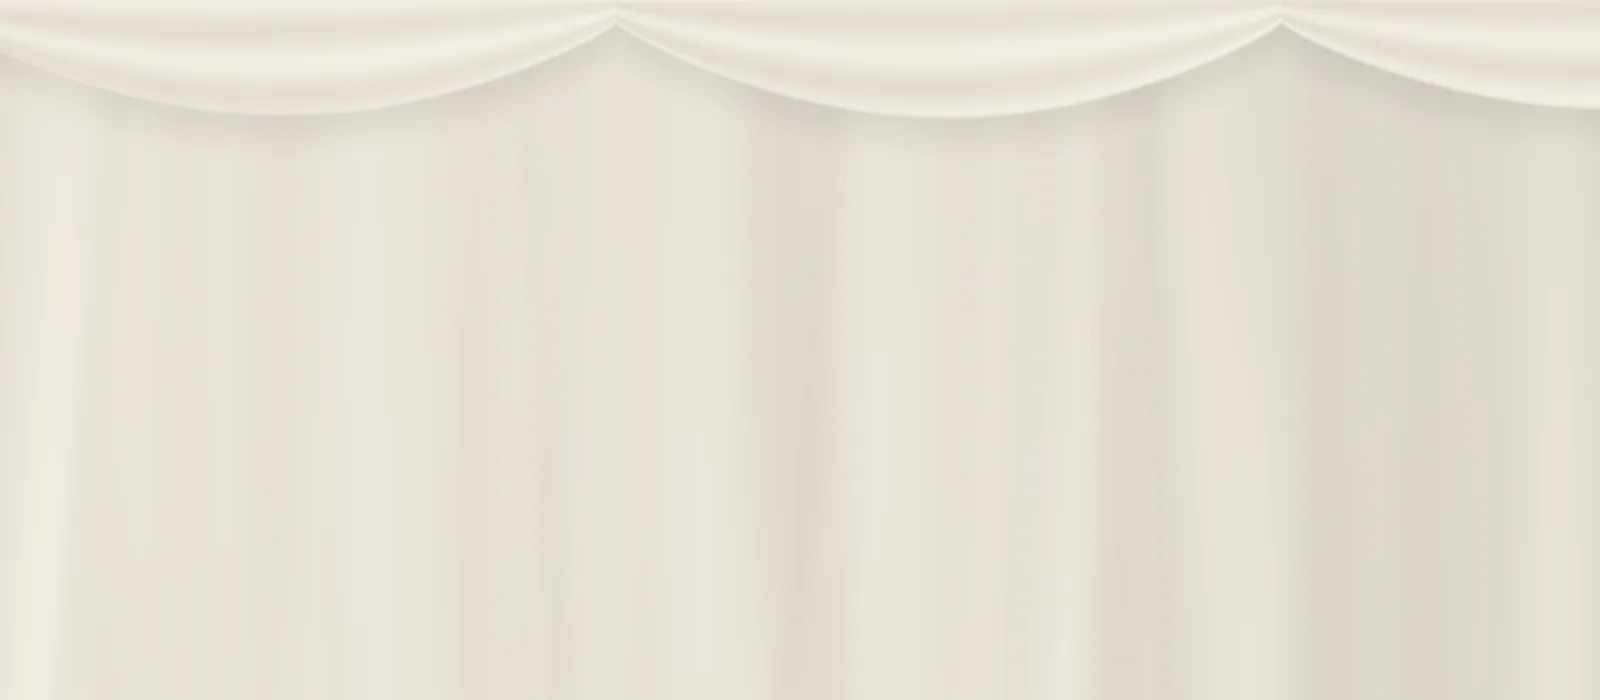
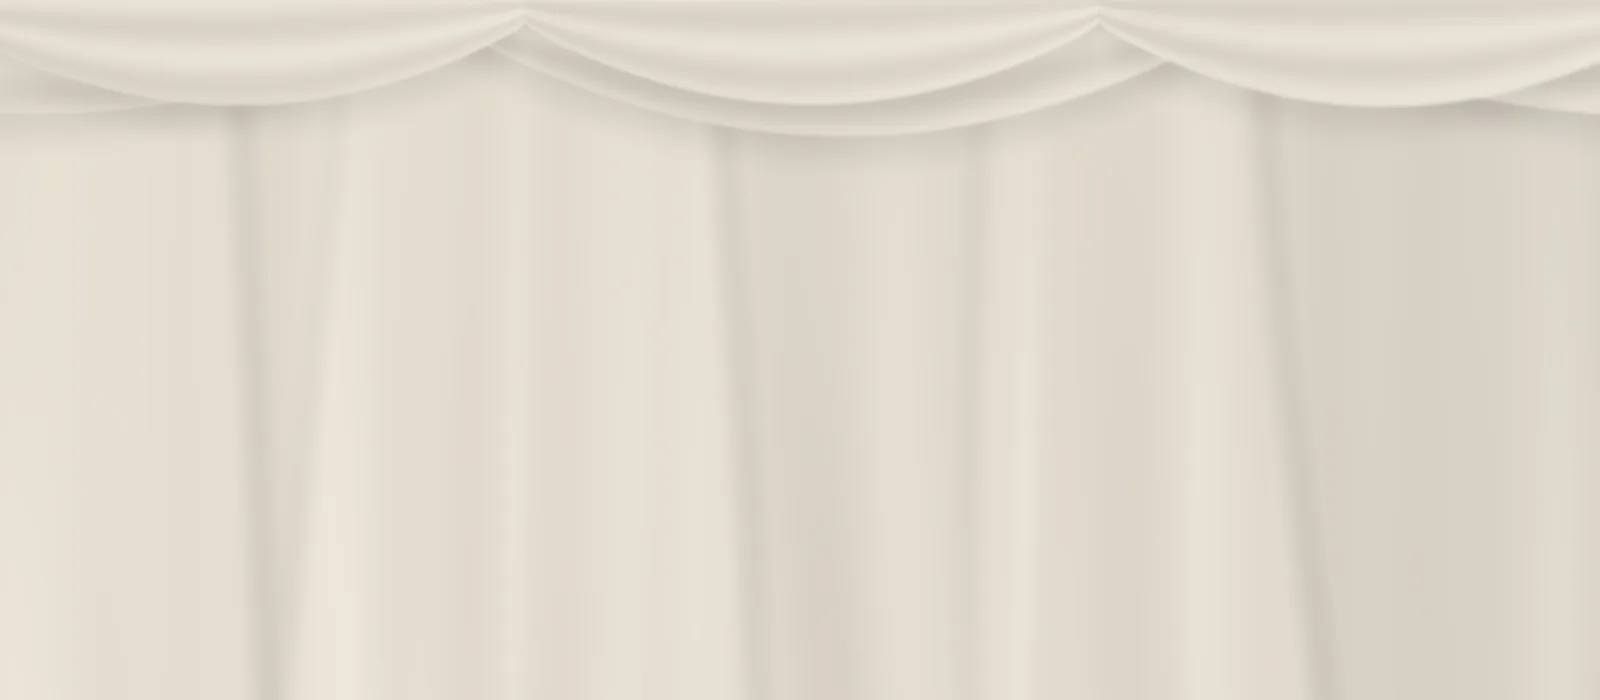
원단 배경에 마우스 반응 복구 — 물결 대신 자락 단위로 밀리고 관성으로 가라앉음
- 2차 시안의 변위장(ClothField)을 원단용으로 재구성: 맨 윗줄 고정, 세로로 강하게·가로로 약하게 결합
- 밀린 쪽 주름이 촘촘해지고 겹마다 반응 크기가 달라 깊이가 드러남, 마우스 세로 위치는 겹 사이 시차
- 천장 스왜그 2줄, 오간자 자락 3장과 그림자로 앞뒤 구조 정리
- 전체 밝기를 낮추고 명암을 절제, 아래 구역 원단 그림자 갱신
- 터치 기기는 가끔 지나가는 약한 바람으로 기본 모션 유지

Claude-Session: https://claude.ai/code/session_012PDLrisHMvdsKQRoRPp3u7

diff --git a/js/fabric.js b/js/fabric.js
@@ -1,55 +1,137 @@
-/* LUXE ELISABETH — 걸려 있는 원단
- * 화면 위쪽 천장에 원단이 스왜그(늘어진 곡선)로 걸려 있고, 그 아래로 실크·오간자 커튼이 바닥까지 늘어진 장면을 그린다.
- *  - 커튼 윗부분은 고정, 아래로 갈수록 아주 약한 공기에 천천히 흔들린다(밑단이 가장 많이 움직임).
- *  - 겹마다 흔들리는 주기와 방향이 달라 동시에 움직이지 않는다.
- *  - 마우스는 원단을 움직이지 않고, 겹 사이의 아주 작은 시차만 만든다.
- *  - 강한 광택·반짝임·물결 효과 없음. 명암은 주름의 입체감이 보일 만큼만.
+/* LUXE ELISABETH — 걸려 있는 원단 + 마우스 반응
+ *
+ * 장면(뒤 → 앞)
+ *   1. 벽을 덮은 실크 커튼 : 넓고 부드러운 세로 주름
+ *   2. 오간자 자락 3장     : 반투명, 가장자리가 따로 흔들림, 겹친 곳에 그림자
+ *   3. 천장 스왜그 2줄     : 뒤 줄과 앞 줄이 다른 간격으로 늘어져 깊이가 생김
+ *
+ * 움직임
+ *   - 기본 : 위(봉)는 고정, 아래로 갈수록 천천히 흔들림. 겹마다 주기·방향이 달라 동시에 움직이지 않음
+ *   - 마우스 : 2차 시안의 '변위장(ClothField)'을 원단용으로 다시 연결.
+ *              · 격자를 세로로 단단히, 가로로 느슨하게 묶어 물결처럼 퍼지지 않고 '자락 단위'로 밀림
+ *              · 맨 윗줄은 봉에 고정 → 밑단일수록 크게 밀렸다가 관성으로 몇 번 흔들리며 가라앉음
+ *              · 밀린 쪽은 주름이 촘촘하고 깊어지고, 반대쪽은 펴짐(주름이 반응)
+ *              · 겹마다 반응 크기가 달라(앞 겹 > 뒤 겹) 깊이가 드러남
+ *              · 마우스 세로 위치는 겹 사이 시차와 앞 자락의 겹침 정도를 바꿈
+ *   - 빛은 주름 모양만 보여줌. 반짝임·번쩍임·부푸는 광택 없음
  */
 (function (root) {
   'use strict';
+
+  /* ───────── 변위장 ───────── */
+  class ClothField {
+    constructor(cols, rows) {
+      this.kV = 240;   // 세로 이웃(같은 자락) — 강하게: 자락 전체가 함께 움직임
+      this.kH = 26;    // 가로 이웃 — 약하게: 옆 자락은 조금 늦게, 조금만 따라옴
+      this.kR = 2.4;   // 제자리로 돌아오려는 힘(진자처럼 몇 번 흔들림)
+      this.damp = 1.25;
+      this.amp = 0.08; // 텍스처로 넘길 최대 변위(화면 비율)
+      this.alloc(cols, rows);
+    }
+    alloc(w, h) { this.W = w; this.H = h; const n = w * h; this.d = new Float32Array(n * 2); this.v = new Float32Array(n * 2); this.bytes = new Uint8Array(n * 4); }
+    /* x,y: 0~1, vx,vy: 초당 화면 비율 */
+    push(x, y, vx, vy, r, gain) {
+      const W = this.W, H = this.H, asp = this.asp || 1.6, r2 = r * r;
+      for (let j = 1; j < H; j++) {
+        const fy = j / (H - 1);
+        const hang = Math.pow(fy, 1.2);                 // 봉 가까이는 거의 안 밀림
+        for (let i = 0; i < W; i++) {
+          const dx = ((i + 0.5) / W - x) * asp, dy = (fy - y) * 0.55; // 세로로 긴 영향 범위(자락 단위)
+          const g = Math.exp(-(dx * dx + dy * dy) / r2);
+          if (g < 0.01) continue;
+          const k = (j * W + i) * 2;
+          this.v[k] += vx * g * gain * hang;
+          this.v[k + 1] += vy * g * gain * hang * 0.35;
+        }
+      }
+    }
+    step(dt) {
+      const W = this.W, H = this.H, d = this.d, v = this.v;
+      for (let j = 1; j < H; j++) {
+        const ju = j - 1, jd = j < H - 1 ? j + 1 : j;
+        for (let i = 0; i < W; i++) {
+          const il = i > 0 ? i - 1 : i, ir = i < W - 1 ? i + 1 : i;
+          const k = (j * W + i) * 2, ku = (ju * W + i) * 2, kd = (jd * W + i) * 2, kl = (j * W + il) * 2, kr = (j * W + ir) * 2;
+          for (let a = 0; a < 2; a++) {
+            const lv = d[ku + a] + d[kd + a] - 2 * d[k + a];
+            const lh = d[kl + a] + d[kr + a] - 2 * d[k + a];
+            v[k + a] += (this.kV * lv + this.kH * lh - this.kR * d[k + a] - this.damp * v[k + a]) * dt;
+          }
+        }
+      }
+      for (let n = 2 * W; n < d.length; n++) {         // 첫 줄(봉)은 고정
+        d[n] += v[n] * dt;
+        if (d[n] > this.amp) { d[n] = this.amp; v[n] *= 0.5; } else if (d[n] < -this.amp) { d[n] = -this.amp; v[n] *= 0.5; }
+      }
+    }
+    pack() {
+      const d = this.d, b = this.bytes, s = 127.5 / this.amp;
+      for (let n = 0, m = 0; n < d.length; n += 2, m += 4) {
+        b[m] = Math.max(0, Math.min(255, 127.5 + d[n] * s));
+        b[m + 1] = Math.max(0, Math.min(255, 127.5 + d[n + 1] * s));
+        b[m + 2] = 128; b[m + 3] = 255;
+      }
+      return b;
+    }
+    maxAbs() { let e = 0; for (let n = 0; n < this.d.length; n++) e = Math.max(e, Math.abs(this.d[n])); return e; }
+  }
 
   const VERT = 'attribute vec2 a;void main(){gl_Position=vec4(a,0.0,1.0);}';
   const FRAG = `
 precision highp float;
 uniform vec2 uRes; uniform float uT; uniform vec2 uPar;
+uniform sampler2D uSim; uniform float uAmp;
 uniform vec3 uBg; uniform vec3 uEnd; uniform float uFade; uniform float uSwag;
 
 float hash(float n){ return fract(sin(n) * 43758.5453); }
 float vnoise(float x){ float i = floor(x), f = fract(x); f = f*f*(3.0-2.0*f); return mix(hash(i), hash(i + 1.0), f); }
 
-/* 커튼 한 겹의 높이(주름). x: 세로 길이 기준 가로 좌표, y: 0(위)~1(아래) */
-float curtain(float x, float y, float k, float t){
-  float g = pow(y, 1.7);                                   // 위는 고정, 밑단으로 갈수록 흔들림
-  float sway = g * ( 0.018*sin(t*0.29 + k*1.9 + x*0.9)
-                   + 0.010*sin(t*0.43 + k*3.1 - x*1.7)
-                   + 0.005*sin(t*0.71 + k*0.7 + x*3.1) );
-  float xs = x + sway + uPar.x * 0.004 * (k + 1.0);
-  float f = 15.0 + 4.0*k;
-  float ph = vnoise(xs*2.2 + k*7.0) * 2.4                   // 주름 간격을 불규칙하게
-           + 0.5*sin(y*1.7 + x*2.3 + k) * g;                 // 아래쪽은 주름이 살짝 휘어짐
+vec2 simAt(vec2 s){ return (texture2D(uSim, s).rg - 0.5) * 2.0 * uAmp; }
+
+/* 커튼 한 겹의 주름 높이. x: 세로 기준 가로 좌표, y: 0(봉)~1(바닥), k: 겹 번호, m: 마우스 변위(가로), c: 압축(+면 촘촘) */
+float curtain(float x, float y, float k, float t, float m, float c){
+  float g = pow(y, 1.7);
+  float sway = g * ( 0.016*sin(t*0.29 + k*1.9 + x*0.9)
+                   + 0.009*sin(t*0.43 + k*3.1 - x*1.7)
+                   + 0.004*sin(t*0.71 + k*0.7 + x*3.1) );
+  float xs = x + sway + m;
+  float f = (15.0 + 4.0*k) * (1.0 + c * 0.5);
+  float ph = vnoise(xs*2.2 + k*7.0) * 2.4 + 0.5*sin(y*1.7 + x*2.3 + k) * g;
   float h = 0.62*sin(xs*f + ph + k*2.0)
           + 0.28*sin(xs*f*1.73 + ph*1.6 + k)
           + 0.07*sin(xs*f*3.1 - ph + k*4.0 + y*1.5);
-  return h * (0.6 + 0.4*smoothstep(0.0, 0.9, y));
-}
-
-/* 얇은 커튼 자락의 가로 범위(가장자리도 천천히 흔들림) */
-float panel(float x, float y, float c, float w, float k, float t){
-  float g = pow(y, 1.6);
-  float e = g * (0.03*sin(t*0.23 + k*2.3) + 0.012*sin(t*0.37 + k*4.1 + y*2.0));
-  float d = abs(x - c - e) - w * (1.0 + 0.25*y);            // 아래로 갈수록 자락이 살짝 넓어짐
-  return 1.0 - smoothstep(-0.05, 0.02, d);
+  return h * (0.6 + 0.4*smoothstep(0.0, 0.9, y)) * (1.0 + c * 0.6);
 }
 
 vec3 shadeFold(float s, float h, vec3 base, float contrast){
-  // s: 가로 기울기, h: 높이. 왼쪽 위 창에서 들어오는 부드러운 빛
   float n = clamp(-s * 0.026, -1.0, 1.0);
   float lit = 0.5 + 0.5 * n;
-  float ao = 0.5 + 0.5 * h / 1.0;
+  float ao = 0.5 + 0.5 * h;
   float v = mix(0.5, lit*0.62 + ao*0.38, contrast);
-  vec3 lo = base * vec3(0.862, 0.848, 0.826);
-  vec3 hi = min(base * 1.022, vec3(1.0));
-  return mix(lo, hi, v);
+  return mix(base * vec3(0.872, 0.858, 0.836), base * 1.012, v);
+}
+
+/* 오간자 자락: 가로 범위(가장자리가 따로 흔들림) */
+float panel(float x, float y, float c, float w, float k, float t, float m){
+  float g = pow(y, 1.6);
+  float e = g * (0.03*sin(t*0.23 + k*2.3) + 0.012*sin(t*0.37 + k*4.1 + y*2.0)) + m;
+  float d = abs(x - c - e) - w * (1.0 + 0.3*y);
+  return 1.0 - smoothstep(-0.05, 0.02, d);
+}
+
+/* 천장 스왜그 한 줄. 반환: x=덮임, y=명암, z=아래 그림자 */
+vec3 swag(float x, float y, float P, float off, float top, float sagBase, float t, float m, float seed){
+  float xx = x + off + m * 0.3;
+  float u = fract(xx / P), idx = floor(xx / P);
+  float sag = sagBase * (0.85 + 0.3*hash(idx + seed)) + 0.006*sin(t*0.21 + idx*1.7 + seed);
+  float edge = top + sag * pow(sin(3.14159 * u), 0.8);
+  float cov = 1.0 - smoothstep(edge - 0.004, edge + 0.006, y);
+  float sh = smoothstep(edge + 0.07, edge, y) * (1.0 - cov);
+  float v = clamp(y / max(edge, 0.001), 0.0, 1.0);
+  float ph = v * 3.14159 * 3.5 + u * 1.3 + idx;
+  float lit = 0.5 + 0.5 * clamp(cos(ph) * 0.55 + (u - 0.5) * 0.4, -1.0, 1.0);
+  float body = 0.5 + 0.5 * sin(ph) * (0.55 + 0.45 * sin(3.14159 * u));
+  return vec3(cov, lit * 0.75 + body * 0.25, sh);
 }
 
 void main(){
@@ -59,55 +141,54 @@ void main(){
   float t = uT;
   float ex = 1.5 / uRes.y;
 
-  /* 뒤: 벽을 덮은 실크 커튼 */
-  float h0 = curtain(x, y, 0.0, t);
-  float s0 = (curtain(x + ex, y, 0.0, t) - h0) / ex;
+  // 마우스 변위와, 그 가로 기울기(밀린 쪽은 주름이 모이고 반대쪽은 펴짐)
+  vec2 D = simAt(s);
+  float e = 1.0 / 40.0;
+  float comp = -(simAt(s + vec2(e, 0.0)).x - simAt(s - vec2(e, 0.0)).x) / (2.0 * e);
+  comp = clamp(comp * 2.4, -0.7, 0.7);
+  float px = uPar.x, py = uPar.y;   // 지연을 두고 따라오는 마우스 위치(-1~1)
+
+  /* 1. 뒤 커튼 — 반응 작게 */
+  float m0 = D.x * asp * 0.45 + px * 0.006;
+  float yb = y + py * 0.004;
+  float h0 = curtain(x, yb, 0.0, t, m0, comp * 0.5);
+  float s0 = (curtain(x + ex, yb, 0.0, t, m0, comp * 0.5) - h0) / ex;
   vec3 col = shadeFold(s0, h0, uBg, 1.0);
-  // 창 쪽(왼쪽)에서 들어오는 아주 옅은 빛
-  col *= 1.0 + 0.025 * smoothstep(0.9, 0.0, s.x) - 0.02 * smoothstep(0.5, 1.0, s.x);
+  col *= 1.0 + 0.02 * smoothstep(0.9, 0.0, s.x) - 0.025 * smoothstep(0.5, 1.0, s.x);
 
-  /* 가운데: 오간자 자락 두 장 */
-  for(int i = 0; i < 2; i++){
+  /* 2. 오간자 자락 3장 — 앞일수록 크게 반응, 마우스 세로 위치에 따라 겹침이 달라짐 */
+  for(int i = 0; i < 3; i++){
     float k = 1.0 + float(i);
-    float c = (i == 0 ? 0.20 : 0.62) * asp;
-    float w = (i == 0 ? 0.13 : 0.10) * asp;
-    float m = panel(x, y, c, w, k, t);
-    if(m > 0.001){
-      float h = curtain(x, y, k, t);
-      float sl = (curtain(x + ex, y, k, t) - h) / ex;
-      vec3 sheer = shadeFold(sl, h, min(uBg * 1.03, vec3(1.0)), 0.7);
-      float edgeOn = smoothstep(0.25, 0.9, abs(sl) * 0.026);  // 옆으로 꺾인 면은 더 진하게 보임
-      float a = (0.42 + 0.28 * edgeOn) * m;
+    float c = (i == 0 ? 0.06 : (i == 1 ? 0.33 : 0.70)) * asp;
+    float w = (i == 0 ? 0.09 : (i == 1 ? 0.12 : 0.09)) * asp;
+    float resp = 0.6 + 0.25 * k;
+    float m = D.x * asp * resp + px * (0.008 + 0.006 * k);
+    float yy = y + py * 0.006 * k;
+    float msk = panel(x, yy, c, w, k, t, m * 0.8);
+    if(msk > 0.001){
+      float h = curtain(x, yy, k, t, m, comp * resp);
+      float sl = (curtain(x + ex, yy, k, t, m, comp * resp) - h) / ex;
+      vec3 sheer = shadeFold(sl, h, min(uBg * 1.05, vec3(1.0)), 0.8);
+      float edgeOn = smoothstep(0.25, 0.9, abs(sl) * 0.026);
+      float a = (0.40 + 0.26 * edgeOn) * msk * (0.92 + 0.08 * py * (k - 2.0));
+      // 자락이 뒤 커튼에 드리우는 그림자(살짝 오른쪽 아래)
+      float shm = panel(x - 0.018, yy - 0.01, c, w, k, t, m * 0.8);
+      col *= 1.0 - 0.07 * shm * (1.0 - msk);
       col = mix(col, sheer, a);
-      // 자락 가장자리의 접힌 선
-      float rim = m * (1.0 - m) * 4.0;
-      col *= 1.0 - rim * 0.012;
+      col *= 1.0 - msk * (1.0 - msk) * 4.0 * 0.028;
     }
   }
 
-  /* 천장의 스왜그: 걸린 지점 사이로 원단이 곡선으로 늘어짐 */
+  /* 3. 천장 스왜그 — 뒤 줄(간격 넓고 얕음), 앞 줄(간격 좁고 깊음) */
   if(uSwag > 0.0){
-    float P = 0.95;
-    float u = fract((x + 0.07) / P);
-    float idx = floor((x + 0.07) / P);
-    float sag = 0.12 + 0.025 * hash(idx + 3.0) + 0.006 * sin(t*0.21 + idx*1.7);
-    float edge = 0.03 + sag * pow(sin(3.14159 * u), 0.8);
-    float m = 1.0 - smoothstep(edge - 0.004, edge + 0.006, y);
-    // 스왜그 아래로 드리운 그림자
-    float sh = smoothstep(edge + 0.075, edge, y) * (1.0 - m);
-    col *= 1.0 - sh * 0.06 * uSwag;
-    if(m > 0.001){
-      float v = clamp(y / max(edge, 0.001), 0.0, 1.0);
-      float hs = sin(v * 3.14159 * 3.5 + u * 1.3 + idx) * (0.55 + 0.45 * sin(3.14159 * u));
-      float dv = cos(v * 3.14159 * 3.5 + u * 1.3 + idx);
-      float lit = 0.5 + 0.5 * clamp(dv * 0.55 + (u - 0.5) * 0.4, -1.0, 1.0);
-      vec3 base = min(uBg * 1.02, vec3(1.0));
-      vec3 sc = mix(base * vec3(0.9, 0.887, 0.868), min(base * 1.02, vec3(1.0)), lit * 0.75 + (0.5 + 0.5*hs) * 0.25);
-      col = mix(col, sc, m * uSwag);
-    }
+    vec3 b = swag(x, y - py * 0.004, 1.15, 0.52, 0.02, 0.15, t, D.x * asp * 0.4 + px * 0.006, 11.0);
+    col *= 1.0 - b.z * 0.07;
+    col = mix(col, mix(uBg * vec3(0.885, 0.872, 0.852), uBg * 1.01, b.y), b.x * uSwag);
+    vec3 f = swag(x, y + py * 0.006, 0.82, 0.07, 0.03, 0.125, t * 1.1, D.x * asp * 0.7 + px * 0.012, 3.0);
+    col *= 1.0 - f.z * 0.07 * uSwag;
+    col = mix(col, mix(uBg * vec3(0.89, 0.877, 0.858), uBg * 1.018, f.y), f.x * uSwag);
   }
 
-  /* 아래쪽은 다음 구역의 바탕색으로 자연스럽게 */
   float fade = smoothstep(1.0 - 0.22 * uFade, 1.0, y) * step(0.001, uFade);
   col = mix(col, uEnd, fade);
   gl_FragColor = vec4(col, 1.0);
@@ -118,10 +199,11 @@ void main(){
   const rgb = hex => { hex = hex.trim().replace('#', ''); return [0, 2, 4].map(i => parseInt(hex.slice(i, i + 2), 16) / 255); };
 
   class Fabric {
-    /* opt: bg(원단 바탕색), end(아래쪽이 이어질 색), fade(0~1), swag(천장 스왜그 0~1), scale(렌더 배율) */
+    /* opt: bg, end, fade, swag, scale, keep(정지 이미지 저장용) */
     constructor(canvas, opt) {
+      opt = opt || {};
       this.c = canvas;
-      this.o = Object.assign({ bg: '#F2EDE5', end: '#F8F5F0', fade: 1, swag: 1, scale: coarse ? 0.5 : 0.65 }, opt);
+      this.o = Object.assign({ bg: '#ECE6DC', end: '#F5F1EB', fade: 1, swag: 1, scale: coarse ? 0.5 : 0.65 }, opt);
       const gl = canvas.getContext('webgl', { antialias: false, alpha: false, powerPreference: 'low-power', preserveDrawingBuffer: !!opt.keep });
       if (!gl) throw new Error('webgl');
       this.gl = gl;
@@ -134,10 +216,20 @@ void main(){
       const b = gl.createBuffer(); gl.bindBuffer(gl.ARRAY_BUFFER, b);
       gl.bufferData(gl.ARRAY_BUFFER, new Float32Array([-1, -1, 3, -1, -1, 3]), gl.STATIC_DRAW);
       const loc = gl.getAttribLocation(pr, 'a'); gl.enableVertexAttribArray(loc); gl.vertexAttribPointer(loc, 2, gl.FLOAT, false, 0, 0);
-      this.u = {}; ['uRes', 'uT', 'uPar', 'uBg', 'uEnd', 'uFade', 'uSwag'].forEach(n => this.u[n] = gl.getUniformLocation(pr, n));
+      this.u = {}; ['uRes', 'uT', 'uPar', 'uSim', 'uAmp', 'uBg', 'uEnd', 'uFade', 'uSwag'].forEach(n => this.u[n] = gl.getUniformLocation(pr, n));
       gl.uniform3fv(this.u.uBg, rgb(this.o.bg)); gl.uniform3fv(this.u.uEnd, rgb(this.o.end));
       gl.uniform1f(this.u.uFade, this.o.fade); gl.uniform1f(this.u.uSwag, this.o.swag);
-      this.par = [0, 0]; this.parT = [0, 0];
+
+      this.field = new ClothField(40, 24);
+      gl.uniform1f(this.u.uAmp, this.field.amp); gl.uniform1i(this.u.uSim, 0);
+      this.simTex = gl.createTexture();
+      gl.activeTexture(gl.TEXTURE0); gl.bindTexture(gl.TEXTURE_2D, this.simTex);
+      gl.pixelStorei(gl.UNPACK_ALIGNMENT, 1);
+      [gl.TEXTURE_MIN_FILTER, gl.TEXTURE_MAG_FILTER].forEach(p => gl.texParameteri(gl.TEXTURE_2D, p, gl.LINEAR));
+      [gl.TEXTURE_WRAP_S, gl.TEXTURE_WRAP_T].forEach(p => gl.texParameteri(gl.TEXTURE_2D, p, gl.CLAMP_TO_EDGE));
+      gl.texImage2D(gl.TEXTURE_2D, 0, gl.RGBA, this.field.W, this.field.H, 0, gl.RGBA, gl.UNSIGNED_BYTE, this.field.pack());
+
+      this.ptr = null; this.sm = null; this.par = [0, 0]; this.parT = [0, 0];
       this.t0 = performance.now() - 40000 * Math.random(); this.slow = 0; this.running = false; this.visible = true;
       this.resize();
       new ResizeObserver(() => this.resize()).observe(canvas);
@@ -151,31 +243,56 @@ void main(){
       this.c.width = Math.max(2, Math.round(r.width * k)); this.c.height = Math.max(2, Math.round(r.height * k));
       this.gl.viewport(0, 0, this.c.width, this.c.height);
       this.gl.uniform2f(this.u.uRes, this.c.width, this.c.height);
+      this.field.asp = r.width / r.height;
       if (!this.running) this.draw(performance.now());
     }
-    /* 마우스는 시차용 목표값만 바꾼다(원단 모양은 그대로) */
+    /* 창 좌표의 마우스 위치 */
     pointer(cx, cy) {
       const r = this.c.getBoundingClientRect();
-      this.parT = [Math.max(-1, Math.min(1, ((cx - r.left) / r.width) * 2 - 1)), Math.max(-1, Math.min(1, ((cy - r.top) / r.height) * 2 - 1))];
+      const x = (cx - r.left) / r.width, y = (cy - r.top) / r.height;
+      if (x < -0.1 || x > 1.1 || y < -0.1 || y > 1.1) return;
+      this.ptr = { x, y };
+      this.parT = [x * 2 - 1, y * 2 - 1];
+      if (!this.sm) this.sm = { x, y };
     }
     start() { if (this.running || reduce) return; this.running = true; this.last = performance.now(); requestAnimationFrame(t => this.loop(t)); }
     loop(now) {
       if (!this.running) return;
-      const dt = Math.min(0.1, (now - this.last) / 1000); this.last = now;
+      const dt = Math.min(0.05, (now - this.last) / 1000); this.last = now;
       if (dt > 0.04) this.slow++; else this.slow = Math.max(0, this.slow - 1);
       if (this.slow > 50) { if (this.o.scale > 0.38) { this.o.scale = 0.38; this.slow = 0; this.resize(); } else { this.running = false; return; } }
-      const k = 1 - Math.pow(0.35, dt);   // 아주 느리게 따라가는 시차
-      this.par[0] += (this.parT[0] - this.par[0]) * k; this.par[1] += (this.parT[1] - this.par[1]) * k;
+      const f = this.field;
+      // 마우스: 지연을 두고 따라가는 점의 속도가 원단을 민다(빠르게 움직여도 상한이 있어 과하게 출렁이지 않음)
+      if (this.ptr && this.sm) {
+        const px = this.sm.x, py = this.sm.y, k = 1 - Math.pow(0.02, dt);
+        this.sm.x += (this.ptr.x - this.sm.x) * k; this.sm.y += (this.ptr.y - this.sm.y) * k;
+        let vx = (this.sm.x - px) / dt, vy = (this.sm.y - py) / dt;
+        const sp = Math.hypot(vx, vy), cap = 1.2;
+        if (sp > cap) { vx *= cap / sp; vy *= cap / sp; }
+        if (sp > 0.01) f.push(this.sm.x, this.sm.y, vx, vy, 0.24, 1.75 * dt);
+      }
+      // 마우스가 없는 기기: 가끔 아주 약한 바람이 한쪽에서 지나감
+      if (this.o.breeze) {
+        this.nb = (this.nb == null ? 2.5 : this.nb) - dt;
+        if (this.nb < 0) { this.gust = { x: Math.random() < 0.5 ? 0.15 : 0.85, y: 0.55 + Math.random() * 0.3, d: Math.random() < 0.5 ? 1 : -1, t: 0 }; this.nb = 5 + Math.random() * 4; }
+        if (this.gust) { const g = this.gust; g.t += dt; if (g.t > 1.6) this.gust = null; else f.push(g.x + g.d * g.t * 0.12, g.y, g.d * 0.35 * Math.sin(Math.PI * g.t / 1.6), 0, 0.3, 1.35 * dt); }
+      }
+      for (let i = 0; i < 4; i++) f.step(dt / 4);
+      const kp = 1 - Math.pow(0.25, dt);        // 시차는 더 느리게
+      this.par[0] += (this.parT[0] - this.par[0]) * kp; this.par[1] += (this.parT[1] - this.par[1]) * kp;
       this.draw(now);
       requestAnimationFrame(t => this.loop(t));
     }
     draw(now) {
-      const gl = this.gl;
+      const gl = this.gl, f = this.field;
+      gl.activeTexture(gl.TEXTURE0); gl.bindTexture(gl.TEXTURE_2D, this.simTex);
+      gl.texSubImage2D(gl.TEXTURE_2D, 0, 0, 0, f.W, f.H, gl.RGBA, gl.UNSIGNED_BYTE, f.pack());
       gl.uniform1f(this.u.uT, reduce ? 18.0 : (now - this.t0) / 1000);
       gl.uniform2f(this.u.uPar, this.par[0], this.par[1]);
       gl.drawArrays(gl.TRIANGLES, 0, 3);
     }
   }
 
-  root.LuxeFabric = { Fabric, reduce, coarse };
-})(window);
+  root.LuxeFabric = { Fabric, ClothField, reduce, coarse };
+  if (typeof module !== 'undefined') module.exports = { ClothField };
+})(typeof window !== 'undefined' ? window : globalThis);

diff --git a/js/site.js b/js/site.js
@@ -30,9 +30,10 @@
   function initFabric() {
     const F = window.LuxeFabric, c = document.getElementById('fabricHero'); if (!F || !c) return;
     let hero;
-    try { hero = new F.Fabric(c, { bg: '#F1ECE4', end: '#F8F5F0', fade: 1, swag: 1 }); }
+    try { hero = new F.Fabric(c, { bg: '#ECE6DC', end: '#F5F1EB', fade: 1, swag: 1, breeze: coarse }); }
     catch (e) { c.remove(); console.warn('원단 효과를 끄고 정지 이미지로 대체합니다', e.message); return; }
     if (reduce || coarse) return;
+    // 마우스: 원단의 주름·자락이 밀리고(가로), 겹 사이 깊이가 달라짐(세로)
     addEventListener('pointermove', e => { if (e.pointerType === 'mouse') hero.pointer(e.clientX, e.clientY); }, { passive: true });
   }
 

diff --git a/css/style.css b/css/style.css
@@ -3,9 +3,9 @@
  * 색과 글자는 절제하고, 사진과 원단은 크게.
  */
 :root{
-  --paper:#F8F5F0;        /* 페이지 바탕: 원단과 같은 계열의 웜 화이트 */
-  --silk:#F1ECE4;         /* 걸려 있는 원단의 색 */
-  --ivory:#F2EDE5;        /* 보조 면(원단 그림자 쪽) */
+  --paper:#F5F1EB;        /* 페이지 바탕: 원단과 같은 계열의 웜 화이트 */
+  --silk:#ECE6DC;         /* 걸려 있는 원단의 색 */
+  --ivory:#EFE9E0;        /* 보조 면(원단 그림자 쪽) */
   --mist:#E6E1D9;         /* 웜 그레이 선 */
   --stone:#8A837A;        /* 보조 글자 */
   --ink:#26231F;          /* 본문 글자 */

diff --git a/README.md b/README.md
@@ -8,7 +8,7 @@
 |---|---|
 | `index.html` | 화면 뼈대 |
 | `css/style.css` | 디자인 |
-| `js/fabric.js` | 첫 화면의 걸려 있는 원단(WebGL) — 천장 스왜그와 커튼이 천천히 흔들림 |
+| `js/fabric.js` | 첫 화면의 걸려 있는 원단(WebGL) — 천장 스왜그 2줄·커튼·오간자 자락, 마우스에 반응하는 변위장 |
 | `js/site.js` | 데이터를 읽어 각 구역을 만드는 코드 |
 | `data/dresses.js` | **드레스·시즌 데이터 — 새 드레스는 여기만 고치면 됩니다** |
 | `images/dresses/` | 드레스 대표 사진 |
